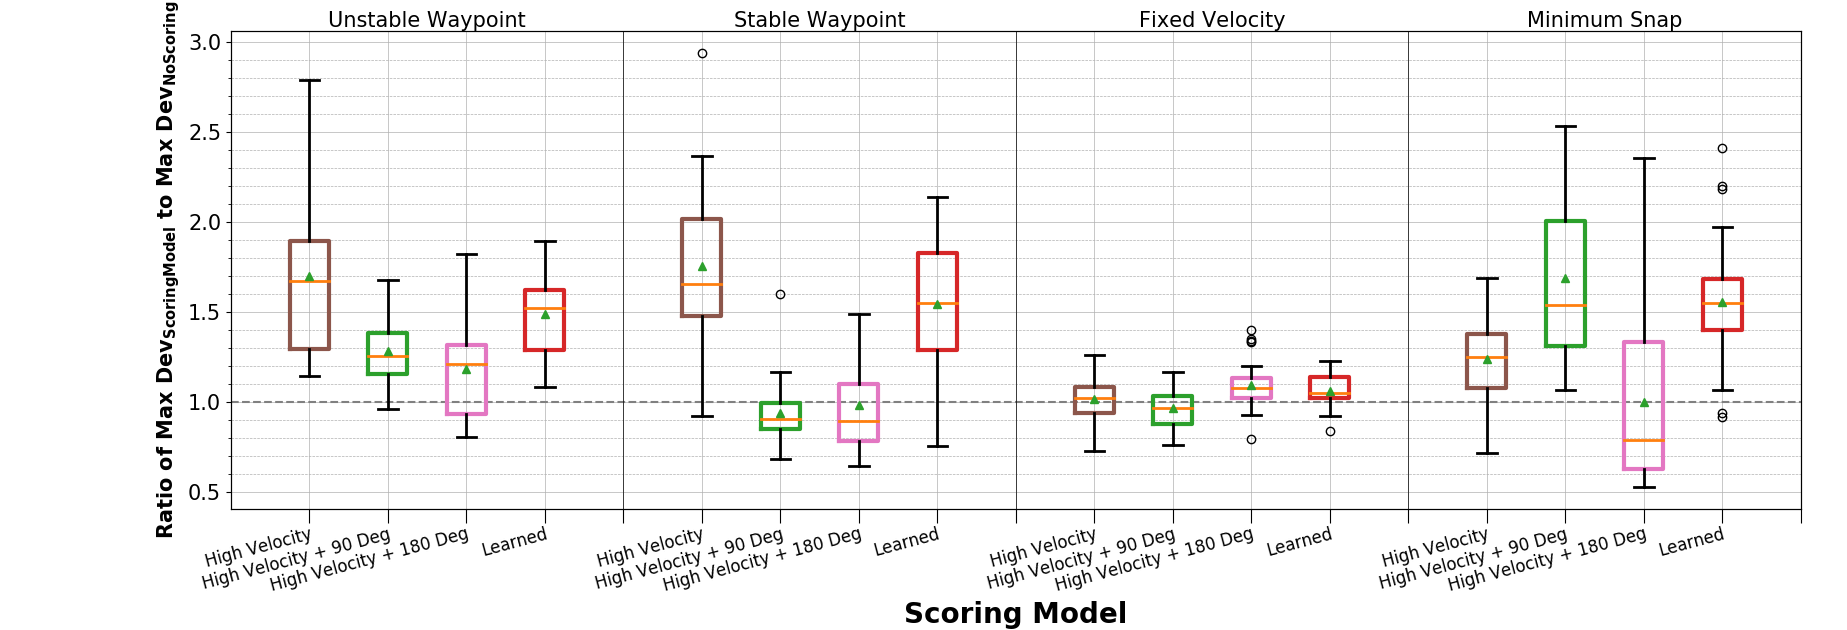
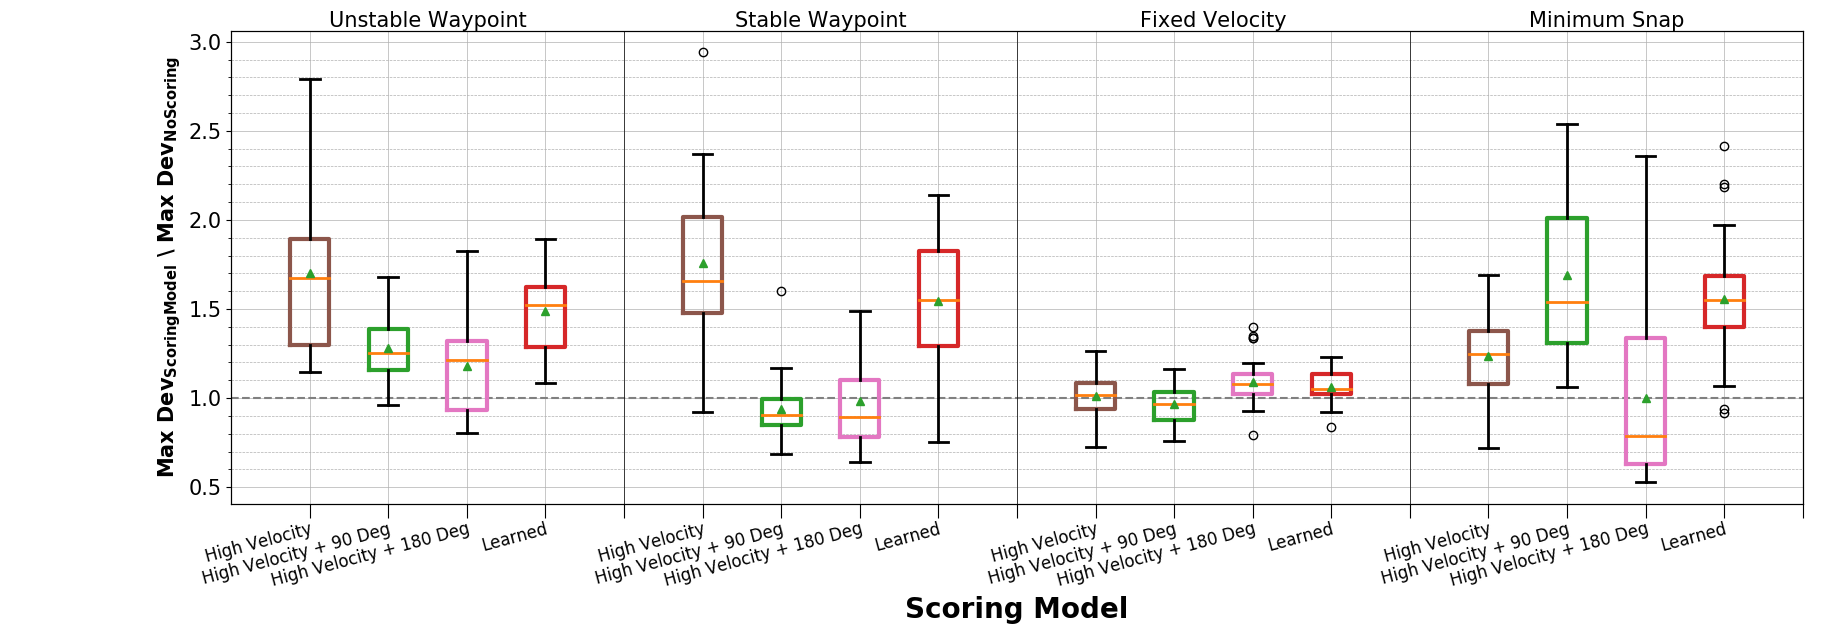
Updated images

diff --git a/TestGeneration/AnalyzeResults/RQ3_Comparison.py b/TestGeneration/AnalyzeResults/RQ3_Comparison.py
@@ -214,7 +214,7 @@ outdoor_deviation, position_outdoor, position_sim, position_goals, plotting_file
 
 
 
-shift_down = 0.85
+shift_down = 1
 plt_num = -1
 
 # print("The worst test was:")
@@ -285,6 +285,21 @@ d_pos_out1 = np.vstack(position_outdoor[plt_num])
 d_pos_sim1 = np.vstack(position_sim[plt_num])
 w_pos1 = np.vstack(position_goals[plt_num])
 
+
+# Find the largest Z value
+max_value_points = max(w_pos1[:,2]-shift_down)
+max_value_simulation = max(d_pos_sim1[:,2])-shift_down
+max_value_outdoor = max(d_pos_out1[:,2])-shift_down
+# max_index = d_pos_sim1[:,2].index(d_pos_sim1[:,2])
+print("The worst test was:")
+print(plotting_file_name[plt_num])
+print("Worst Z in Points: " + str(max_value_points))
+print("Worst Z in Simulation: " + str(max_value_simulation))
+print("Worst Z in Real-Word: " + str(max_value_outdoor))
+
+
+
+
 # Create a 3D plot of the trajectory and actual path
 ax.plot(w_pos1[:, 0], -1*w_pos1[:, 1], w_pos1[:, 2]-shift_down, color='black', linewidth=2, linestyle=":", label='Ideal Trajectory')
 ax.scatter(w_pos1[:, 0], -1*w_pos1[:, 1], w_pos1[:, 2]-shift_down, c='black')
@@ -314,8 +329,7 @@ ax.zaxis._axinfo['juggled'] = (1,2,1)
 
 # Select the plot
 ax1 = fig.add_subplot(1, 4, 2)
-print("The worst test was:")
-print(plotting_file_name[plt_num])
+
 # Stack the drone positions and waypoints for plotting
 d_pos_out1 = np.vstack(position_outdoor[plt_num])
 d_pos_sim1 = np.vstack(position_sim[plt_num])
@@ -407,3 +421,7 @@ plt.grid(b=True, which='minor', linestyle='--', linewidth=0.5)
 
 fig.tight_layout()
 plt.show()
+
+
+
+

diff --git a/TestGeneration/AnalyzeResults/RQ3_ANAFI.py b/TestGeneration/AnalyzeResults/RQ3_ANAFI.py
@@ -203,7 +203,12 @@ for sys in system_types:
 # Get the ratio of each
 for i in range(0,2):
     mean = np.mean(randomscore_results[i])
-    print("Mean: " + str(mean))
+    print("System: " + str(system_types[i]))
+    print("Mean (random score): " + str(mean))
+    print("Max (random score): " + str(np.max(randomscore_results[i])))
+    print("Mean (learned score): " + str(np.mean(learnedscore_results[i])))
+    print("Max (learned score): " + str(np.max(learnedscore_results[i])))
+    print("")
 
     randomscore_results[i] = randomscore_results[i] / mean
     learnedscore_results[i] = learnedscore_results[i] / mean
@@ -259,7 +264,7 @@ plt.grid(b=False, which='minor', axis='x')
 
 # Add the labels
 plt.xlabel("Scoring Model", fontweight='bold', fontsize=20)
-plt.ylabel("Ratio of Max $\mathregular{Dev_{Scoring Model}}$ to Max $\mathregular{Dev_{No Scoring}}$", fontweight='bold', fontsize=15)
+plt.ylabel("Max $\mathregular{Dev_{Scoring Model}}$ \ Max $\mathregular{Dev_{No Scoring}}$", fontweight='bold', fontsize=15)
 
 topticks = ["Simulation", "Real-World"]
 new_tick_locations = np.array([1.5, 4.5])

diff --git a/TestGeneration/AnalyzeResults/RQ2.py b/TestGeneration/AnalyzeResults/RQ2.py
@@ -645,7 +645,7 @@ plt.grid(b=False, which='minor', axis='x')
 
 # Add the labels
 plt.xlabel("Scoring Model", fontweight='bold', fontsize=20)
-plt.ylabel("Ratio of Max $\mathregular{Dev_{Scoring Model}}$ to Max $\mathregular{Dev_{No Scoring}}$", fontweight='bold', fontsize=15)
+plt.ylabel("Max $\mathregular{Dev_{Scoring Model}}$ \ Max $\mathregular{Dev_{No Scoring}}$", fontweight='bold', fontsize=15)
 
 topticks = ["Unstable Waypoint", "Stable Waypoint", "Fixed Velocity", "Minimum Snap"]
 new_tick_locations = np.array([2.5, 7.5 , 12.5 ,17.5])
